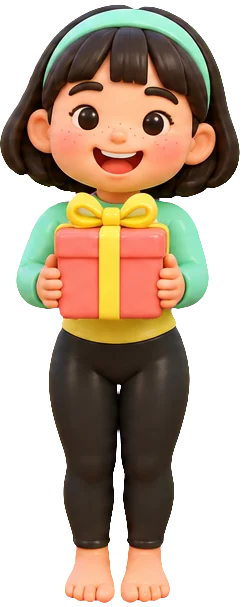
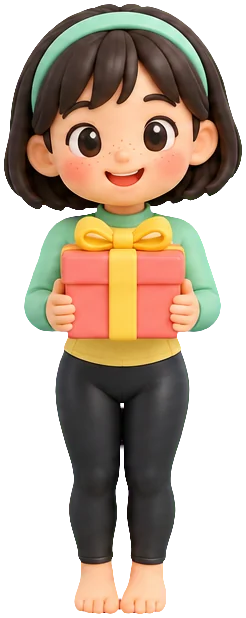
빼빼로 이벤트 v2: 낙산 서핑 네컷(인생네컷 띠 1080×1920 — 패들·라인업·발밑에 걸림·선물 든 나, 필름 날짜·파스텔 틀·클레이 스티커)으로 공유 이미지와 공개 화면을 바꾸고 「인스타 스토리로 자랑하기」를 맨 앞에, 박자에 맞춘 약 7초 릴스 영상(셔터 찰칵 3컷 → 상자 흔들림 → 꽃가루와 넷째 컷), 브라우저에서 만드는 우쿨렐레 서프 팝 배경 음악(Karplus-Strong, 104 BPM, 🔊/🔇 기억)과 효과음을 영상 소리로 함께 녹음, 더 귀여운 클레이 캐릭터 8종(v3), sw v219

diff --git a/pepero-app.js b/pepero-app.js
@@ -20,8 +20,8 @@ const PRIZES = [
 ];
 /* 캐릭터 — 남자/여자 탭에서 넷 중 하나(이름으로 성별을 짐작하지 않는다 — 본인이 고른다).
    클레이 캐릭터 그림(GPT) 한 사람에 세 자세: pad 엎드려 패들 · sit 보드에 앉아 기다리기 · gift 선물상자 들고 서기 → img/pepero/<id>-<자세>.webp */
-const LOOKS = { m:[ { id:'m1', ko:'웻슈트' }, { id:'m2', ko:'버킷햇' }, { id:'m3', ko:'수염 서퍼' }, { id:'m4', ko:'금발 곱슬' } ],
-  f:[ { id:'f1', ko:'포니테일' }, { id:'f2', ko:'헤어밴드' }, { id:'f3', ko:'웨이브' }, { id:'f4', ko:'올림머리' } ] };
+const LOOKS = { m:[ { id:'m1', ko:'웻슈트' }, { id:'m2', ko:'버킷햇' }, { id:'m3', ko:'곱슬머리' }, { id:'m4', ko:'금발 곱슬' } ],
+  f:[ { id:'f1', ko:'포니테일' }, { id:'f2', ko:'헤어밴드' }, { id:'f3', ko:'꽃핀' }, { id:'f4', ko:'똥머리' } ] };
 const W = 1080, H = 1920, BY = 1120;   // 스토리 좌표 — 화면 캔버스도 같은 좌표를 줄여서 그린다(BY: 물보라 높이)
 const FONT = '"Apple SD Gothic Neo","Noto Sans KR",sans-serif', INK = '#2B2340';
 const RM = (()=>{ try{ return matchMedia('(prefers-reduced-motion: reduce)').matches; }catch(e){ return false; } })();
@@ -237,67 +237,154 @@ function dof(g, t, a){
   g.save(); g.globalAlpha = a; g.beginPath(); g.rect(0, 0, W, 1300); g.clip(); back(g, b, t, 1.02, 540, 1150); g.restore();
   g.save(); g.globalAlpha = a * .5; g.beginPath(); g.rect(0, 1300, W, 110); g.clip(); back(g, b, t, 1.02, 540, 1150); g.restore();
 }
-/* 경품 스티커 — 하얀 테두리 스티커 위에 경품 그림 · 등수 · 이름 */
-function badge(g, p, cx, cy, rot, sc){
-  const w = 440, h = 520;
-  g.save(); g.translate(cx, cy); g.rotate(rot); g.scale(sc, sc);
-  g.save(); g.shadowColor = 'rgba(60,30,60,.35)'; g.shadowBlur = 34; g.shadowOffsetY = 16; g.fillStyle = '#fff'; rr(g, -w / 2, -h / 2, w, h, 74); g.fill(); g.restore();
-  const gr = g.createLinearGradient(0, -h / 2, 0, h / 2); gr.addColorStop(0, '#FFFBF3'); gr.addColorStop(1, '#FFEFD6');
-  g.fillStyle = gr; rr(g, -w / 2 + 16, -h / 2 + 16, w - 32, h - 32, 60); g.fill();
-  const im = PIC[stickerOf(p)], SZ = 210;
-  if(im){ const f = Math.min(SZ / im.width, SZ / im.height); g.save(); g.translate(0, -h / 2 + 36 + SZ / 2); g.rotate(-.08); g.drawImage(im, -im.width * f / 2, -im.height * f / 2, im.width * f, im.height * f); g.restore(); }
-  else{ g.textAlign = 'center'; g.font = `170px ${FONT}`; g.fillText(p.ic, 0, -h / 2 + 220); }
-  const pc = p.rank === '1등' ? ['#FFD86B', '#E7B640'] : p.rank === '참여상' ? ['#A8EBCF', '#6CCBA6'] : ['#FFC2CD', '#EE8FA3'];
-  pill(g, p.rank || '선물', 0, 4, 40, pc[0], pc[1]);
-  const [ls, fs] = wrap(g, p.n, w - 70, 60);
-  g.fillStyle = INK; g.textAlign = 'center'; g.font = `900 ${fs}px ${FONT}`; ls.forEach((l, i)=>g.fillText(l, 0, 176 + fs * .35 + (i - (ls.length - 1) / 2) * fs * 1.15));
-  g.restore();
-}
-/* 날짜 도장 — 둥근 분홍 스탬프 */
-function stamp(g, x, y, rot){
-  g.save(); g.translate(x, y); g.rotate(rot);
-  g.save(); g.shadowColor = 'rgba(120,30,60,.35)'; g.shadowBlur = 18; g.shadowOffsetY = 8; g.fillStyle = '#E86F86'; g.beginPath(); g.arc(0, 8, 98, 0, 7); g.fill(); g.restore();
-  g.fillStyle = '#FF8FA3'; g.beginPath(); g.arc(0, 0, 98, 0, 7); g.fill();
-  g.strokeStyle = 'rgba(255,255,255,.85)'; g.lineWidth = 5; g.setLineDash([10, 9]); g.beginPath(); g.arc(0, 0, 84, 0, 7); g.stroke(); g.setLineDash([]);
-  g.textAlign = 'center'; g.fillStyle = '#fff'; g.font = `900 58px ${FONT}`; g.fillText('11.11', 0, 6); g.font = `900 22px ${FONT}`; g.fillText('빼빼로데이', 0, 46);
-  g.restore();
-}
-/* 선물 장면 — 햇살 위로 선물상자가 튀어 오르고(찌그러졌다 펴지며) → 포스터: 제목 · 날짜 도장 · 경품 스티커 · 선물상자 든 나 · 「서프 버디 ○○」 · 같이 하자는 한 줄 */
+/* 선물상자가 물 밖으로 — 흐린 해변·햇살 위로 튀어 올라 찌그러졌다 펴진다 */
 function prizeScene(g, s, X, t){
-  const pop = s.ph === 'pop', k = pop ? Math.min(1, s.k / .7) : 1, rk = X.rm ? 1 : Math.min(1, s.k / .7), e = 1 - Math.pow(1 - rk, 3);
-  dof(g, t, pop ? Math.min(1, s.k / .5) : 1);
+  const k = Math.min(1, s.k / .7);
+  dof(g, t, Math.min(1, s.k / .5));
   g.fillStyle = 'rgba(255,240,225,.12)'; g.fillRect(0, 0, W, H);
-  rays(g, pop ? 540 : 680, pop ? 730 : 1060, t, pop ? k * .8 : .85);
-  if(!pop) for(const b of BOKEH){ const y = ((b.y - t * b.sp) % 1300 + 1300) % 1300; g.globalAlpha = b.a; g.fillStyle = '#FFF4DC'; g.beginPath(); g.arc(b.x, y, b.r, 0, 7); g.fill(); } g.globalAlpha = 1;
-  /* 바다에서 건진 선물상자 — 튀어 올랐다가 공개 때 모래 위 왼쪽으로 내려앉는다 */
-  let gx = 540, gb = 905, gh = 350, sx = 1, sy = 1;
-  if(pop && !X.rm){ gb = 1900 - (1900 - 905) * (1 - Math.pow(1 - k, 3)); if(k < 1){ sx = .84; sy = 1.18; }
+  rays(g, 540, 730, t, k * .8);
+  let gb = 905, sx = 1, sy = 1;
+  if(!X.rm){ gb = 1900 - (1900 - 905) * (1 - Math.pow(1 - k, 3)); if(k < 1){ sx = .84; sy = 1.18; }
     else{ const l = Math.min(1, (s.k - .7) / .3), w = Math.sin(l * Math.PI * 2.5) * (1 - l) * .2; sx = 1 + w; sy = 1 - w; } }
-  else if(!pop){ gx = 540 + (225 - 540) * e; gb = 905 + (1545 - 905) * e; gh = 350 + (250 - 350) * e; }
-  const gim = PIC.gift;
-  const drawGift = ()=>{ g.save(); g.translate(gx, gb); g.scale(sx, sy); if(gim){ const w = gh * gim.width / gim.height; g.drawImage(gim, -w / 2, -gh, w, gh); } else{ g.textAlign = 'center'; g.font = `${gh * .7}px ${FONT}`; g.fillText('🎁', 0, -gh * .15); } g.restore(); };
-  if(pop){ drawGift(); return; }
-  const tk = X.rm ? 1 : Math.min(1, s.k / .6), ty = (1 - tk) * -30, pk = X.rm ? 1 : Math.min(1, Math.max(0, (s.k - .25) / .5));
-  /* 선물상자 든 나 */
-  if(X.gift){ const h = 760, w = h * X.gift.width / X.gift.height, cx = 700, fy = 1540, b = X.rm ? 0 : Math.sin(t * 2.4) * 6;
-    g.fillStyle = 'rgba(90,60,30,.26)'; g.beginPath(); g.ellipse(cx, fy - 8, w * .42, 26, 0, 0, 7); g.fill();
-    const sc2 = X.rm ? 1 : .6 + .4 * easeBack(Math.min(1, s.k / .55));
-    g.save(); g.translate(cx, fy); g.scale(sc2, sc2); g.drawImage(X.gift, -w / 2, -h + b, w, h); g.restore(); }
-  drawGift();
-  if(X.prize && pk > 0) badge(g, X.prize, 300, 1010, -.07, X.rm ? 1 : .5 + .5 * easeBack(pk));
-  g.globalAlpha = tk;
-  pill(g, '양양서핑학교 서프 버디', W / 2 + 70, 268 + ty, 36, '#A8EBCF', '#6CCBA6');
-  title(g, '낙산 해변에서', W / 2, 462 + ty, 118, 960);
-  title(g, '건진 선물!', W / 2, 612 + ty, 156, 960);
-  g.globalAlpha = 1;
-  stamp(g, 150, 300, -.22);
-  if(X.name) pill(g, '서프 버디 ' + String(X.name).slice(0, 10), 700, 1530, 40, '#fff', '#E8DCCB');
-  g.fillStyle = 'rgba(255,255,255,.88)'; rr(g, 90, 1626, 900, 76, 38); g.fill();
-  g.textAlign = 'center'; g.fillStyle = INK; fit(g, '너도 낙산에서 선물 건져 봐 → surf.owenai.xyz/pepero', 840, 34, 900); g.fillText('너도 낙산에서 선물 건져 봐 → surf.owenai.xyz/pepero', W / 2, 1676);
-  if(!X.rm && s.k < 3.2){ g.globalAlpha = Math.min(1, (3.2 - s.k) / .8);
-    for(const c of CF){ const yy = c.ph * .3 - 200 + s.k * c.sp; g.save(); g.translate(c.x, yy); g.rotate(c.r + s.k * 2); g.fillStyle = CFC[c.ph % 6]; rr(g, -c.s / 2, -c.s * 1.6, c.s, c.s * 3.2, c.s / 2); g.fill(); g.restore(); }
-    g.globalAlpha = 1; }
+  g.save(); g.translate(540, gb); g.scale(sx, sy);
+  const im = PIC.gift; if(im){ const w = 350 * im.width / im.height; g.drawImage(im, -w / 2, -350, w, 350); } else{ g.textAlign = 'center'; g.font = `240px ${FONT}`; g.fillText('🎁', 0, -60); }
+  g.restore();
 }
+/* ── 서핑 네컷 — 사진관 네 컷 띠(1080×1920). ① 패들 ② 라인업에서 기다림 ③ 발밑에 걸림 ④ 선물 든 나 ──
+   컷마다 필름 사진처럼(비네트·플래시 번짐·주황 날짜 글씨), 둘레는 파스텔 틀 + 클레이 스티커. 화면 공개·스토리 이미지·영상이 같은 그림을 쓴다 */
+const CW = 460, CH = 620, SLOTS = [[70, 300], [550, 300], [70, 940], [550, 940]];
+const LABEL = ['① 패들 패들!', '② 세트 기다리는 중', '③ 발밑에 걸렸다!', '④ 바다가 준 선물'];
+function world(g, im, x, y, w, h){   // 1080×1920 장면의 한 부분을 컷 하나에 꽉 채운다
+  if(!im){ const gr = g.createLinearGradient(0, 0, 0, CH); gr.addColorStop(0, '#9FD8F5'); gr.addColorStop(.5, '#5CC6D0'); gr.addColorStop(1, '#F6E3BD'); g.fillStyle = gr; g.fillRect(0, 0, CW, CH); return; }
+  const f = im.width / W; g.drawImage(im, x * f, y * f, w * f, h * f, 0, 0, CW, CH);
+}
+function fig(g, im, cx, by, h){ if(!im) return; const w = h * im.width / im.height; g.drawImage(im, cx - w / 2, by - h, w, h); }
+function starburst(g, x, y, r, rot, face){ g.save(); g.translate(x, y); g.rotate(rot); g.beginPath(); for(let i = 0; i < 28; i++){ const a = i / 28 * 6.283, rr2 = i % 2 ? r * .8 : r; g.lineTo(Math.cos(a) * rr2, Math.sin(a) * rr2); } g.closePath();
+  g.fillStyle = 'rgba(120,60,0,.18)'; g.save(); g.translate(4, 8); g.fill(); g.restore(); g.fillStyle = face; g.fill(); g.restore(); }
+function clayStar(g, x, y, r, rot){ g.save(); g.translate(x, y); g.rotate(rot);
+  const path = ()=>{ g.beginPath(); for(let i = 0; i < 10; i++){ const a = -Math.PI / 2 + i * Math.PI / 5, q = i % 2 ? r * .48 : r; g.lineTo(Math.cos(a) * q, Math.sin(a) * q); } g.closePath(); };
+  g.lineJoin = 'round'; g.lineWidth = r * .22; g.translate(0, r * .14); path(); g.strokeStyle = g.fillStyle = '#E7B640'; g.fill(); g.stroke(); g.translate(0, -r * .14); path(); g.strokeStyle = g.fillStyle = '#FFD86B'; g.fill(); g.stroke();
+  g.fillStyle = 'rgba(255,255,255,.7)'; g.beginPath(); g.ellipse(-r * .2, -r * .3, r * .18, r * .1, -.5, 0, 7); g.fill(); g.restore(); }
+function sticker(g, im, x, y, sz, rot){ if(!im) return; const f = sz / Math.max(im.width, im.height); g.save(); g.translate(x, y); g.rotate(rot); g.shadowColor = 'rgba(80,40,60,.3)'; g.shadowBlur = 14; g.shadowOffsetY = 6;
+  g.drawImage(im, -im.width * f / 2, -im.height * f / 2, im.width * f, im.height * f); g.restore(); }
+let CUTS = null;
+function cuts(X){
+  const key = [imgs.key, X.prize && X.prize.id, ...ALL.map(n=>PIC[n] ? 1 : 0), X.pad ? 1 : 0, X.sit ? 1 : 0, X.gift ? 1 : 0].join('|');
+  if(CUTS && CUTS.key === key) return CUTS.c;
+  const c = [0, 1, 2, 3].map(i=>{ const cv = document.createElement('canvas'); cv.width = CW; cv.height = CH; const g = cv.getContext('2d');
+    if(i === 0){ world(g, PIC.bg, 300, 640, 700, 943);
+      g.strokeStyle = 'rgba(255,255,255,.7)'; g.lineCap = 'round'; g.lineWidth = 6; [[30, 380, 110], [10, 430, 90], [40, 470, 120]].forEach(([x, y, l])=>{ g.beginPath(); g.moveTo(x, y); g.lineTo(x + l, y); g.stroke(); });
+      fig(g, X.pad, 250, 480, 250 * (X.pad ? X.pad.height / X.pad.width : 1) * 1.65);
+      g.fillStyle = '#fff'; [[420, 420, 9], [440, 395, 6], [400, 445, 7], [452, 430, 5], [118, 462, 7], [96, 448, 5]].forEach(([x, y, r])=>{ g.beginPath(); g.arc(x, y, r, 0, 7); g.fill(); }); }
+    if(i === 1){ world(g, PIC.bg, 0, 520, 620, 836);
+      g.save(); g.globalCompositeOperation = 'screen'; const gr = g.createRadialGradient(111, 308, 6, 111, 308, 300); gr.addColorStop(0, 'rgba(255,236,190,.95)'); gr.addColorStop(1, 'rgba(255,190,140,0)'); g.fillStyle = gr; g.fillRect(0, 0, CW, CH); g.restore();
+      fig(g, X.sit, 300, 500, 330); }
+    if(i === 2){ world(g, PIC.tug, 140, 760, 700, 943);
+      g.save(); g.globalCompositeOperation = 'screen'; for(let j = 0; j < 3; j++){ const x0 = 40 + j * 150, gr = g.createLinearGradient(0, 0, 0, CH); gr.addColorStop(0, 'rgba(220,255,250,.3)'); gr.addColorStop(1, 'rgba(220,255,250,0)'); g.fillStyle = gr; g.beginPath(); g.moveTo(x0, 0); g.lineTo(x0 + 50, 0); g.lineTo(x0 + 170, CH); g.lineTo(x0 + 60, CH); g.closePath(); g.fill(); } g.restore();
+      for(let j = 0; j < 9; j++) bubble(g, 120 + (j * 97) % 260, 80 + (j * 131) % 360, 8 + (j % 3) * 6);
+      g.save(); g.translate(372, 118); g.rotate(.12); pill(g, '!', 0, -50, 84, '#FFE08A', '#E7B640'); g.restore(); }
+    if(i === 3){ world(g, soft('bg') || PIC.bg, 190, 700, 700, 943);
+      g.save(); g.globalCompositeOperation = 'screen'; g.translate(230, 300); const gr = g.createRadialGradient(0, 0, 20, 0, 0, 420); gr.addColorStop(0, 'rgba(255,240,200,.75)'); gr.addColorStop(1, 'rgba(255,240,200,0)'); g.fillStyle = gr;
+        for(let j = 0; j < 12; j++){ const a = j / 12 * 6.283; g.beginPath(); g.moveTo(0, 0); g.arc(0, 0, 600, a, a + .2); g.closePath(); g.fill(); } g.restore();
+      fig(g, X.gift, 210, 600, 500);
+      const p = X.prize; if(p){ starburst(g, 352, 132, 100, .2, '#FFE08A'); sticker(g, PIC[stickerOf(p)], 352, 118, 120, -.15);
+        g.textAlign = 'center'; g.fillStyle = INK; g.font = `900 30px ${FONT}`; g.fillText(p.rank || '선물', 352, 205); } }
+    /* 필름 사진 느낌 — 따뜻한 색 · 플래시 번짐 · 비네트 · 주황 날짜 */
+    g.save(); g.globalCompositeOperation = 'soft-light'; g.fillStyle = 'rgba(255,190,140,.35)'; g.fillRect(0, 0, CW, CH);
+    g.globalCompositeOperation = 'screen'; const fl = g.createRadialGradient(90, 70, 10, 90, 70, 300); fl.addColorStop(0, 'rgba(255,255,255,.35)'); fl.addColorStop(1, 'rgba(255,255,255,0)'); g.fillStyle = fl; g.fillRect(0, 0, CW, CH);
+    g.globalCompositeOperation = 'source-over'; const v = g.createRadialGradient(CW / 2, CH / 2, CH * .3, CW / 2, CH / 2, CH * .72); v.addColorStop(0, 'rgba(40,20,40,0)'); v.addColorStop(1, 'rgba(40,20,40,.38)'); g.fillStyle = v; g.fillRect(0, 0, CW, CH); g.restore();
+    g.save(); g.font = `700 30px "Courier New",monospace`; g.textAlign = 'right'; g.shadowColor = '#FF6A00'; g.shadowBlur = 10; g.fillStyle = '#FFB060'; g.fillText("'26 11 11", CW - 22, CH - 24); g.restore();
+    g.save(); g.font = `900 26px ${FONT}`; const lw = g.measureText(LABEL[i]).width + 28; g.fillStyle = 'rgba(255,255,255,.92)'; rr(g, 16, 16, lw, 46, 23); g.fill(); g.fillStyle = INK; g.textAlign = 'left'; g.fillText(LABEL[i], 30, 48); g.restore();
+    return cv; });
+  CUTS = { key, c }; return c;
+}
+function dateStamp(g, x, y, rot){
+  g.save(); g.translate(x, y); g.rotate(rot);
+  g.fillStyle = '#E86F86'; g.beginPath(); g.arc(0, 7, 86, 0, 7); g.fill(); g.fillStyle = '#FF8FA3'; g.beginPath(); g.arc(0, 0, 86, 0, 7); g.fill();
+  g.strokeStyle = 'rgba(255,255,255,.85)'; g.lineWidth = 4; g.setLineDash([9, 8]); g.beginPath(); g.arc(0, 0, 77, 0, 7); g.stroke(); g.setLineDash([]);
+  g.textAlign = 'center'; g.fillStyle = '#fff'; g.font = `900 24px ${FONT}`; g.fillText('2026', 0, -24); g.font = `900 50px ${FONT}`; g.fillText('11.11', 0, 22); g.font = `900 17px ${FONT}`; g.fillText('빼빼로데이', 0, 46);
+  g.restore();
+}
+const CONF = Array.from({ length:90 }, (_, i)=>({ a:(i * 137.5) % 360 * Math.PI / 180, v:500 + (i * 53) % 900, s:9 + (i % 4) * 4, c:CFC[i % 6], r:i * .9 }));
+/* 띠 그리기 — o: { n 붙은 컷 수, fly:[i, p] 날아드는 컷, shake 넷째 칸 상자 흔들림, lines 아랫줄 보임, conf 꽃가루 시간, flash, t } */
+function strip(g, X, o){
+  const t = o.t || 0, C = cuts(X);
+  const bg = g.createLinearGradient(0, 0, 0, H); bg.addColorStop(0, '#FFD3DF'); bg.addColorStop(1, '#FFE6C4'); g.fillStyle = bg; g.fillRect(0, 0, W, H);
+  g.fillStyle = 'rgba(255,255,255,.42)'; for(let y = 30, r = 0; y < H; y += 56, r++) for(let x = r % 2 ? 58 : 30; x < W; x += 56){ g.beginPath(); g.arc(x, y, 6, 0, 7); g.fill(); }
+  pill(g, '양양서핑학교 서프 버디 · 낙산 해변', W / 2 - 60, 84, 34, '#fff', '#F2C9D3');
+  title(g, '낙산 서핑 네컷', W / 2 - 60, 260, 96, 760);
+  SLOTS.forEach(([x, y], i)=>{
+    g.save(); g.fillStyle = 'rgba(150,70,90,.18)'; rr(g, x + 4, y + 8, CW, CH, 22); g.fill(); g.restore();
+    if(i < o.n && !(o.fly && o.fly[0] === i)){ g.save(); rr(g, x, y, CW, CH, 22); g.clip(); g.drawImage(C[i], x, y); g.restore(); }
+    else{ g.fillStyle = '#F7C3CF'; rr(g, x, y, CW, CH, 22); g.fill(); g.globalAlpha = .55; g.textAlign = 'center'; g.font = `90px ${FONT}`; g.fillText(i === 3 ? '🎁' : '📷', x + CW / 2, y + CH / 2 + 30); g.globalAlpha = 1; }
+  });
+  if(o.shake > 0 && PIC.gift && o.n < 4){ const [x, y] = SLOTS[3], a = Math.sin(t * 46) * .22 * o.shake, s = 1 + .08 * o.shake * Math.abs(Math.sin(t * 11));
+    g.save(); g.translate(x + CW / 2, y + CH * .72); g.rotate(a); g.scale(s, s); const w = 330 * PIC.gift.width / PIC.gift.height; g.drawImage(PIC.gift, -w / 2, -330, w, 330); g.restore(); }
+  sticker(g, PIC.p2, 1000, 330, 200, .55); sticker(g, PIC.p4, 96, 1548, 170, -.3); sticker(g, PIC.gift, 1000, 1578, 160, .14);
+  clayStar(g, 46, 920, 34, .2); clayStar(g, 1042, 1000, 26, -.3); clayStar(g, 536, 935, 20, .4);
+  dateStamp(g, 948, 168, .18);
+  const la = o.lines == null ? 1 : o.lines;
+  if(la > 0){ g.globalAlpha = la; const dy = (1 - la) * 30;
+    if(X.name) pill(g, '서프 버디 ' + String(X.name).slice(0, 10), W / 2, 1596 + dy, 44, '#fff', '#F2C9D3');
+    if(X.prize){ const tx = `건진 선물: ${X.prize.rank && X.prize.rank !== '참여상' ? X.prize.rank + ' ' : ''}${X.prize.n}`; g.textAlign = 'center'; g.fillStyle = INK; fit(g, tx, 880, 50, 900); g.fillText(tx, W / 2, 1752 + dy); }
+    g.fillStyle = '#A0687E'; g.font = `800 30px ${FONT}`; g.textAlign = 'center'; g.fillText('surf.owenai.xyz/pepero', W / 2, 1822 + dy); g.globalAlpha = 1; }
+  if(o.fly){ const [i, p] = o.fly, e = 1 - Math.pow(1 - p, 3), [sx, sy] = SLOTS[i], bw = 940, bh = bw * CH / CW, bx = (W - bw) / 2, by = (H - bh) / 2;
+    const x = bx + (sx - bx) * e, y = by + (sy - by) * e, w = bw + (CW - bw) * e, h = bh + (CH - bh) * e;
+    g.save(); g.translate(x + w / 2, y + h / 2); g.rotate(-.04 * (1 - e)); g.shadowColor = 'rgba(60,20,40,.4)'; g.shadowBlur = 40 * (1 - e); g.fillStyle = '#fff'; rr(g, -w / 2 - 10, -h / 2 - 10, w + 20, h + 20, 28); g.fill(); g.shadowBlur = 0;
+    rr(g, -w / 2, -h / 2, w, h, 22); g.clip(); g.drawImage(C[i], -w / 2, -h / 2, w, h); g.restore(); }
+  if(o.conf != null && o.conf >= 0 && o.conf < 2.6){ const k = o.conf;
+    for(const c of CONF){ const x = 540 + Math.cos(c.a) * c.v * k * .9, y = 960 + Math.sin(c.a) * c.v * k * .9 + 900 * k * k; if(y > H + 40) continue;
+      g.save(); g.globalAlpha = Math.max(0, 1 - k / 2.6); g.translate(x, y); g.rotate(c.r + k * 8); g.fillStyle = c.c; rr(g, -c.s / 2, -c.s * 1.6, c.s, c.s * 3.2, c.s / 2); g.fill(); g.restore(); } }
+  if(o.flash > 0){ g.fillStyle = `rgba(255,255,255,${Math.min(1, o.flash)})`; g.fillRect(0, 0, W, H); }
+}
+/* ── 소리 — 「우쿨렐레 서프 팝」, 브라우저에서 바로 만든다(녹음 파일·저작권 없음). 104 BPM, C–G–Am–F.
+   뜯는 줄은 Karplus-Strong(잡음을 짧은 지연선에 돌려 줄 소리로), 박수·셰이커는 걸러 낸 잡음, 종은 사인파 셋. 같은 함수를 화면 배경 음악·영상 소리·효과음이 같이 쓴다 ── */
+const BPM = 104, BEAT = 60 / BPM, NOTE = n => 440 * Math.pow(2, (n - 69) / 12);
+const CHORDS = [[67, 60, 64, 69], [67, 62, 67, 71], [69, 60, 64, 69], [69, 60, 65, 69]], ROOT = [48, 43, 45, 41];   // 우쿨렐레 GCEA 자리 C G Am F
+const STRUM = [[0, 0, 1], [1, 0, .7], [1.5, 1, .5], [2.5, 1, .6], [3, 0, .8], [3.5, 1, .55]];   // [박, 위로?, 세기] — 다운 다운업 업다운업
+function pluck(ctx, f){ const m = ctx.__pl || (ctx.__pl = {}); if(m[f]) return m[f];
+  const sr = ctx.sampleRate, N = Math.max(2, Math.round(sr / f)), L = Math.round(sr * 1.3), b = ctx.createBuffer(1, L, sr), d = b.getChannelData(0);
+  for(let i = 0; i < N; i++) d[i] = (Math.random() * 2 - 1) * .9;
+  for(let i = N; i < L; i++) d[i] = .4975 * (d[i - N] + d[i - N + 1]);
+  return m[f] = b; }
+function noise(ctx){ if(ctx.__nz) return ctx.__nz; const b = ctx.createBuffer(1, ctx.sampleRate, ctx.sampleRate), d = b.getChannelData(0); for(let i = 0; i < d.length; i++) d[i] = Math.random() * 2 - 1; return ctx.__nz = b; }
+function src(ctx, out, buf, t, gain, filt){
+  const s = ctx.createBufferSource(), g = ctx.createGain(); s.buffer = buf; g.gain.value = gain; let n = s;
+  if(filt){ const f = ctx.createBiquadFilter(); f.type = filt[0]; f.frequency.value = filt[1]; f.Q.value = filt[2] || .7; n.connect(f); n = f; }
+  n.connect(g); g.connect(out); s.start(Math.max(0, t)); return [s, g];
+}
+function hit(ctx, out, t, dur, gain, filt){ t = Math.max(0, t); const [s, g] = src(ctx, out, noise(ctx), t, 0, filt); g.gain.setValueAtTime(gain, t); g.gain.exponentialRampToValueAtTime(.0001, t + dur); s.stop(t + dur + .02); }
+function strum(ctx, out, t, ns, v, up){ (up ? ns.slice().reverse() : ns).forEach((n, i)=>{ const [s] = src(ctx, out, pluck(ctx, NOTE(n)), t + i * .013, .15 * v, ['lowpass', 5200]); s.stop(Math.max(0, t) + 1.3); }); }
+function tone(ctx, out, t, f, gain, dur, type){ t = Math.max(0, t); const o = ctx.createOscillator(), g = ctx.createGain(); o.type = type || 'sine'; o.frequency.value = f;
+  g.gain.setValueAtTime(.0001, t); g.gain.exponentialRampToValueAtTime(gain, t + .012); g.gain.exponentialRampToValueAtTime(.0001, t + dur); o.connect(g); g.connect(out); o.start(t); o.stop(t + dur + .05); }
+const clap = (ctx, out, t, v) => { for(let i = 0; i < 3; i++) hit(ctx, out, t + i * .008, .09, .3 * v, ['bandpass', 1400, 1.2]); };
+const chime = (ctx, out, t, v = 1) => [[1, 1], [2.76, .45], [5.4, .2]].forEach(([r, a])=>tone(ctx, out, t, 1046.5 * r, .16 * a * v, 1.8 / r));
+const shutter = (ctx, out, t) => { hit(ctx, out, t, .03, .55, ['highpass', 2600]); hit(ctx, out, t + .06, .06, .4, ['bandpass', 1700, 2]); tone(ctx, out, t + .01, 2600, .05, .12, 'triangle'); };
+function sparkle(ctx, out, t){ t = Math.max(0, t); const [s, g] = src(ctx, out, noise(ctx), t, 0, ['bandpass', 900, 3]);
+  g.gain.setValueAtTime(.0001, t); g.gain.exponentialRampToValueAtTime(.35, t + .05); g.gain.exponentialRampToValueAtTime(.0001, t + .6); s.stop(t + .65);
+  [0, .07, .14, .21].forEach((d, i)=>tone(ctx, out, t + d, [1568, 2093, 2637, 3136][i], .07, .5, 'triangle')); chime(ctx, out, t + .05, 1.2); }
+function bar(ctx, out, t, i){
+  const c = i % 4;
+  STRUM.forEach(([b, up, v])=>strum(ctx, out, t + b * BEAT, CHORDS[c], v, up));
+  [0, 2].forEach(b=>tone(ctx, out, t + b * BEAT, NOTE(ROOT[c]), .22, .45));
+  [1, 3].forEach(b=>clap(ctx, out, t + b * BEAT, .8));
+  for(let e = 0; e < 8; e++) hit(ctx, out, t + e * BEAT / 2, .045, e % 2 ? .07 : .035, ['highpass', 7000]);
+}
+/* 화면 배경 음악 — 처음엔 꺼 둔다(자동 재생 막힘). 켜 두면 기억했다가 다음에 첫 터치에 다시 켠다 */
+const LSND = 'lineup.pepero.sound', SND = { on:false, ctx:null, out:null, iv:0, next:0, bar:0 };
+function sndCtx(){
+  if(SND.ctx) return SND.ctx; const AC = window.AudioContext || window.webkitAudioContext; if(!AC) return null;
+  SND.ctx = new AC(); SND.out = SND.ctx.createGain(); SND.out.gain.value = 0; SND.out.connect(SND.ctx.destination); return SND.ctx;
+}
+function paintSnd(){ const b = $('pp-snd'); if(!b) return; b.textContent = SND.on ? '🔊' : '🔇'; b.setAttribute('aria-pressed', String(SND.on)); b.setAttribute('aria-label', SND.on ? '배경 음악 끄기' : '배경 음악 켜기'); }
+function music(on, keep){
+  SND.on = on; if(!keep) try{ localStorage.setItem(LSND, on ? '1' : '0'); }catch(e){}
+  paintSnd(); const c = sndCtx(); if(!c) return;
+  if(on){ c.resume?.(); SND.out.gain.setTargetAtTime(.3, c.currentTime, .08); SND.next = Math.max(SND.next, c.currentTime + .08); clearInterval(SND.iv);
+    const fill = ()=>{ while(SND.next < c.currentTime + 1.6){ bar(c, SND.out, SND.next, SND.bar++); SND.next += 4 * BEAT; } }; fill(); SND.iv = setInterval(fill, 300); }
+  else{ clearInterval(SND.iv); SND.out.gain.setTargetAtTime(0, c.currentTime, .06); SND.next = 0; }
+}
+function sfx(fn){ if(SND.on && SND.ctx) try{ fn(SND.ctx, SND.out, SND.ctx.currentTime + .02); }catch(e){} }
 /* 장면 상태 — 화면과 영상이 같은 걸 쓴다(입자는 미리 만들어 두고 돌려 쓴다) */
 const CAM = { intro:[1, 540, 1150], walk:[1.18, 0, 1420], paddle:[1.1, 640, 1150], wait:[1.26, 610, 1080], tug:[1.3, 610, 1080], pop:[1, 540, 1000], reveal:[1, 540, 1000] };
 function newS(){ return { ph:'intro', k:0, t:0, w:0, wp:0, pg:0, n:0, pulls:0, cz:1, cx:540, cy:1150, sp:Array.from({ length:48 }, ()=>({ a:0, x:0, y:0, vx:0, vy:0 })) }; }
@@ -344,6 +431,7 @@ function post(g, s, X, t){
 }
 function paint(g, s, X){
   const ph = s.ph, t = X.rm ? 0 : s.t;
+  if(ph === 'reveal'){ const k = X.rm ? 9 : s.k; strip(g, X, { t, n:4, lines:Math.min(1, k / .8), conf:k < 2.6 ? k : -1, flash:Math.max(0, .8 - k * 2.5) }); return; }   // 공개 = 서핑 네컷 띠(내보내는 그림과 같다)
   const tugA = ph === 'tug' ? (X.rm ? 1 : Math.min(1, s.k / .6)) : ph === 'pop' ? (X.rm ? 0 : Math.max(0, 1 - s.k / .35)) : 0;
   if(tugA < 1){
     const beach = ph !== 'pop' && ph !== 'reveal';
@@ -445,7 +533,7 @@ function loop(now){
   step(S, dt, RM);
   if(S.ph === 'walk' && S.w >= 4 && S.k > 1.6){ go(S, 'paddle'); splash(S, 420, 1300, 12); ctl(); }
   else if(S.ph === 'wait' && S.k > 2.8){ go(S, 'tug'); navigator.vibrate?.([30, 40, 30, 40, 60]); ctl(); }
-  else if(S.ph === 'pop' && S.k > 1.1){ go(S, 'reveal'); X.prize = prizeOf(res); navigator.vibrate?.([20, 40, 20]); ctl(); }
+  else if(S.ph === 'pop' && S.k > 1.1){ go(S, 'reveal'); X.prize = prizeOf(res); navigator.vibrate?.([20, 40, 20]); sfx(sparkle); ctl(); }
   paint(cv.getContext('2d'), S, X);
   raf = requestAnimationFrame(loop);
 }
@@ -466,16 +554,16 @@ async function play(){
   if(res && S.ph === 'intro'){ go(S, 'reveal'); S.k = 1; X.prize = prizeOf(res); }
   ctl();
 }
-function walk(){ if(!S || S.ph !== 'walk' || S.w >= 4) return; S.w++; navigator.vibrate?.(10); if(S.w >= 4) S.k = 0; ctl(); }
+function walk(){ if(!S || S.ph !== 'walk' || S.w >= 4) return; S.w++; sfx((c, o, t)=>tone(c, o, t, NOTE(72 + [0, 4, 7, 12][S.w - 1]), .12, .4, 'triangle')); navigator.vibrate?.(10); if(S.w >= 4) S.k = 0; ctl(); }
 function paddle(){
   if(!S || S.ph !== 'paddle') return;
-  S.n++; splash(S, S.hx || 600, S.hy || BY, 8); navigator.vibrate?.(10);
+  S.n++; splash(S, S.hx || 600, S.hy || BY, 8); sfx((c, o, t)=>hit(c, o, t, .16, .22, ['bandpass', 800, .8])); navigator.vibrate?.(10);
   if(S.n >= 5){ go(S, 'wait'); splash(S, 610, BY, 10); }
   ctl();
 }
 function pull(){
   if(!S || S.ph !== 'tug') return;
-  S.pulls++; splash(S, 487, 1320, 10); navigator.vibrate?.(18);
+  S.pulls++; splash(S, 487, 1320, 10); sfx((c, o, t)=>clap(c, o, t, .9)); navigator.vibrate?.(18);
   if(S.pulls >= 3){ claim(); go(S, 'pop'); splash(S, 540, 1500, 20); }
   ctl();
 }
@@ -486,37 +574,55 @@ async function start(){
 }
 const act = () => S && (S.ph === 'walk' ? walk() : S.ph === 'paddle' ? paddle() : S.ph === 'tug' ? pull() : 0);   // 그림을 눌러도 같은 동작
 
-/* ── 스토리 내보내기 ── */
+/* ── 스토리 내보내기 — 서핑 네컷 PNG · 박자에 맞춘 약 7초 릴스 영상(음악·셔터·꽃가루 소리까지 영상에 담는다) ── */
 function storyCanvas(){ const c = document.createElement('canvas'); c.width = W; c.height = H; return c; }
 async function png(){
-  await loadImgs(); await want(ALL); const c = storyCanvas(), g = c.getContext('2d'), s = newS(); go(s, 'reveal'); s.k = 1; s.t = 2.2;
-  paint(g, s, Object.assign(assets(), { rm:true }));
+  await loadImgs(); await want(ALL); const c = storyCanvas();
+  strip(c.getContext('2d'), assets(), { n:4, lines:1 });
   return new Promise(ok=>c.toBlob(ok, 'image/png'));
 }
-const MIMES = ['video/mp4;codecs=avc1.42E01E', 'video/mp4;codecs=avc1', 'video/mp4', 'video/webm;codecs=vp9', 'video/webm;codecs=vp8', 'video/webm'];
-/* 영상 — 같은 장면을 줄여서: 해변 와이드 → 보드 넷 1111 → 패들 → 라인업 → 물속 리시 → 선물상자 → 경품 카드 */
-const TL = [['intro', 1.3], ['walk', 2.0], ['paddle', 1.7], ['wait', 1.2], ['tug', 1.7], ['pop', 1.0], ['reveal', 2.6]];
+const MIMES = ['video/mp4;codecs=avc1.42E01E,mp4a.40.2', 'video/mp4;codecs=avc1,mp4a.40.2', 'video/mp4', 'video/webm;codecs=vp9,opus', 'video/webm;codecs=vp8,opus', 'video/webm'];
+/* 박자표(박 단위) — 컷 셋은 박자에 찰칵, 상자가 흔들리며 쌓이다가 8박에 꽃가루와 함께 넷째 컷, 띠가 자리 잡고 끝 */
+const SNAP = [1, 3, 5], SHAKE = [6, 8], REVEAL = 8, REEL_END = 12.6;
+function reel(g, X, el){
+  const b = el / BEAT, fly = [], o = { t:el, n:0, lines:0, flash:0, shake:0, conf:-1 };
+  SNAP.forEach((sb, i)=>{ if(b >= sb){ o.n = i + 1; const p = (el - sb * BEAT - .18) / .32; if(p < 1) o.fly = [i, Math.max(0, p)]; o.flash = Math.max(o.flash, 1 - (el - sb * BEAT) / .22); } });
+  if(b >= SHAKE[0] && b < REVEAL) o.shake = (b - SHAKE[0]) / (SHAKE[1] - SHAKE[0]);
+  if(b >= REVEAL){ o.n = 4; const p = (el - REVEAL * BEAT - .7) / .4; if(p < 1) o.fly = [3, Math.max(0, p)]; o.flash = Math.max(o.flash, 1 - (el - REVEAL * BEAT) / .3); o.conf = el - REVEAL * BEAT; }
+  o.lines = Math.max(0, Math.min(1, (b - REVEAL - 2) / 1.2));
+  if(b < SNAP[0]) o.lines = 0;
+  strip(g, X, o);
+  if(b < SNAP[0]){ const k = b / SNAP[0]; g.fillStyle = `rgba(43,35,64,${.55 * (1 - k)})`; g.fillRect(0, 0, W, H);
+    g.textAlign = 'center'; g.font = `900 120px ${FONT}`; g.fillStyle = '#fff'; g.save(); g.translate(540, 980); const s = 1 + .2 * (1 - k); g.scale(s, s); g.fillText('찰칵!', 0, 0); g.restore(); }
+}
+function score(ctx, out, a0){   // 영상 소리 — 음악 3마디 + 효과음, a0 = 0박의 시각
+  for(let i = 0; i < 3; i++) bar(ctx, out, a0 + i * 4 * BEAT, i);
+  strum(ctx, out, a0 + 12 * BEAT, CHORDS[0], 1, 0); tone(ctx, out, a0 + 12 * BEAT, NOTE(ROOT[0]), .25, 1);
+  SNAP.forEach(sb=>shutter(ctx, out, a0 + sb * BEAT));
+  for(let x = SHAKE[0]; x < REVEAL; x += .25 - (x - SHAKE[0]) * .06) clap(ctx, out, a0 + x * BEAT, .35 + (x - SHAKE[0]) * .3);   // 점점 빨라지는 두두두
+  sparkle(ctx, out, a0 + REVEAL * BEAT); chime(ctx, out, a0 + 12 * BEAT, .8);
+}
 async function video(onP){
-  await loadImgs(); await want(ALL);
+  await loadImgs(); await want(ALL); cuts(assets());
   const mime = typeof MediaRecorder === 'undefined' ? null : MIMES.find(m=>{ try{ return MediaRecorder.isTypeSupported(m); }catch(e){ return false; } });
   const c = storyCanvas(); if(!mime || !c.captureStream) throw new Error('norec');
-  const g = c.getContext('2d'), s = newS(), A = Object.assign(assets(), { rm:false }), DUR = TL.reduce((a, x)=>a + x[1], 0);
-  paint(g, s, A);
-  const stream = c.captureStream(30), rec = new MediaRecorder(stream, { mimeType:mime, videoBitsPerSecond:6e6 }), parts = [];
+  const g = c.getContext('2d'), A = assets(), DUR = REEL_END * BEAT;
+  let ac = null, dest = null;
+  try{ const AC = window.AudioContext || window.webkitAudioContext; ac = new AC(); await Promise.race([ac.resume(), new Promise(r=>setTimeout(r, 300))]); dest = ac.createMediaStreamDestination(); }catch(e){ dest = null; }
+  reel(g, A, 0);
+  const vs = c.captureStream(30), stream = new MediaStream([...vs.getVideoTracks(), ...(dest ? dest.stream.getAudioTracks() : [])]);
+  const rec = new MediaRecorder(stream, { mimeType:mime, videoBitsPerSecond:6e6 }), parts = [];
   rec.ondataavailable = e=>{ if(e.data && e.data.size) parts.push(e.data); };
   return new Promise((ok, no)=>{
-    let iv = 0; const t0 = performance.now(); let lt = t0;
-    const kill = setTimeout(()=>{ clearInterval(iv); no(new Error('timeout')); try{ rec.stop(); }catch(e){} }, 40000);   // 멈춘 채 기다리지 않게
-    rec.onstop = ()=>{ clearTimeout(kill); clearInterval(iv); stream.getTracks().forEach(t=>t.stop()); const b = new Blob(parts, { type:mime.split(';')[0] }); b.size ? ok(b) : no(new Error('empty')); };
+    let iv = 0; const t0 = performance.now() + 150;
+    if(dest){ const m = ac.createGain(); m.gain.value = .9; m.connect(dest); score(ac, m, ac.currentTime + .15); }
+    const done = ()=>{ clearTimeout(kill); clearInterval(iv); stream.getTracks().forEach(t=>t.stop()); vs.getTracks().forEach(t=>t.stop()); try{ ac && ac.close(); }catch(e){} };
+    const kill = setTimeout(()=>{ done(); no(new Error('timeout')); try{ rec.stop(); }catch(e){} }, 30000);   // 멈춘 채 기다리지 않게
+    rec.onstop = ()=>{ done(); const b = new Blob(parts, { type:mime.split(';')[0] }); b.size ? ok(b) : no(new Error('empty')); };
     rec.start(250);
     iv = setInterval(()=>{
-      const now = performance.now(), el = (now - t0) / 1000, dt = Math.min(.1, (now - lt) / 1000); lt = now;
-      let acc = 0, ph = 'reveal'; for(const [p, d] of TL){ if(el < acc + d){ ph = p; break; } acc += d; }
-      if(s.ph !== ph){ go(s, ph); if(ph === 'paddle') splash(s, 420, 1300, 12); if(ph === 'pop') splash(s, 540, 1500, 20); }
-      if(ph === 'walk' && s.w < 4 && Math.floor(s.k / .35) > s.w) s.w++;
-      if(ph === 'paddle' && s.n < 5 && Math.floor(s.k / .3) > s.n){ s.n++; splash(s, s.hx || 600, s.hy || BY, 8); }
-      if(ph === 'tug' && s.pulls < 3 && Math.floor(s.k / .45) > s.pulls){ s.pulls++; splash(s, 487, 1320, 8); }
-      step(s, dt, false); paint(g, s, A); onP?.(Math.min(1, el / DUR));
+      const el = Math.max(0, (performance.now() - t0) / 1000);
+      reel(g, A, el); onP?.(Math.min(1, el / DUR));
       if(el >= DUR){ clearInterval(iv); try{ rec.stop(); }catch(e){} }
     }, 1000 / 30);
   });
@@ -530,6 +636,7 @@ async function shareFile(file){
 async function onClick(e){
   const t = e.target.closest('button, canvas'); if(!t || t.disabled) return;
   if(t.id === 'pep-cv') return act();
+  if(t.id === 'pp-snd') return music(!SND.on);
   if(t.matches('[data-name]')) return pickName(t.dataset.name);
   if(t.matches('[data-pagain]')) return pickName(me.name);
   if(t.matches('[data-pg]')){ lookG = t.dataset.pg; lookI = 0; return paintLook(); }
@@ -571,8 +678,11 @@ function boot(){
   $('pp-q').addEventListener('input', paintList);
   addEventListener('resize', ()=>{ if(!$('pp-play').hidden) sizeCv(); });
   if(DEMO){ const bd = $('pp-demo'); if(bd) bd.hidden = false; }
+  let again = false; try{ again = localStorage.getItem(LSND) === '1'; }catch(e){}
+  paintSnd(); if(again){ const b = $('pp-snd'); if(b) b.textContent = '🔊';   // 켜 두었으면 첫 터치에 다시(자동 재생은 막혀 있다)
+    addEventListener('pointerdown', e=>{ if(!SND.on && !e.target.closest('#pp-snd')) music(true, true); }, { once:true, capture:true }); }
   want(['bg']); loadMe(); enter(); pullWall();
 }
 boot();
-window._pepero = { PRIZES, LOOKS, pick, png, video, walk, paddle, pull, get res(){ return res; }, get S(){ return S; }, get wall(){ return wall; }, get me(){ return me; } };
+window._pepero = { PRIZES, LOOKS, pick, png, video, audio:{ bar, score, BEAT, REEL_END }, music, walk, paddle, pull, get res(){ return res; }, get S(){ return S; }, get wall(){ return wall; }, get me(){ return me; } };
 })();

diff --git a/pepero.html b/pepero.html
@@ -49,10 +49,13 @@ button:focus-visible, input:focus-visible{ outline:3px solid #6FD0EA; outline-of
 .pp-look img{ width:auto; height:150px; max-width:100%; object-fit:contain; filter:drop-shadow(0 6px 6px rgba(60,30,60,.18)) }
 .pp-look span{ font-weight:900; font-size:13px; color:var(--ink) }
 .pp-look.on{ background:#FFE1E8; transform:translateY(-4px); box-shadow:inset 0 -5px 0 rgba(200,60,100,.12), 0 9px 0 #E86F86, 0 0 0 3px #FF8FA3 }
-.pp-top{ display:flex; align-items:center; justify-content:space-between; gap:8px; margin-bottom:2px }
+.pp-top{ display:flex; align-items:center; justify-content:space-between; gap:8px; margin-bottom:2px; padding-right:58px }
 .pp-top b{ font-size:14px; font-weight:900; min-width:0; overflow:hidden; text-overflow:ellipsis; white-space:nowrap }
 .pp-foot{ margin-top:18px; text-align:center; font-size:12.5px; color:var(--ink2) } .pp-foot a{ color:#C2456A; font-weight:800 }
 .pp-demo{ margin:0 auto 10px; width:max-content; max-width:100%; background:#2B2340; color:#FFE08A; font-weight:900; font-size:12.5px; border-radius:999px; padding:5px 14px }
+.pp-snd{ position:fixed; top:calc(10px + env(safe-area-inset-top)); right:12px; z-index:8; width:48px; height:48px; border:0; border-radius:50%; background:#fff; font-size:22px; cursor:pointer;
+  box-shadow:inset 0 -4px 0 rgba(60,30,60,.1), inset 0 3px 0 #fff, 0 4px 0 #E8D6B6, 0 8px 16px rgba(90,60,120,.18) }
+.pp-snd[aria-pressed="true"]{ background:#FFE1E8 }
 .pp-toast{ position:fixed; left:50%; bottom:calc(24px + env(safe-area-inset-bottom)); transform:translateX(-50%); background:var(--ink); color:#fff; font-weight:800; font-size:14px;
   border-radius:999px; padding:10px 18px; z-index:9; max-width:calc(100vw - 32px); text-align:center }
 .pep-stage canvas{ display:block; margin:6px auto 0; height:min(58vh, calc((100vw - 40px) * 16 / 9)); max-width:100%; aspect-ratio:9/16; border:5px solid #fff; border-radius:30px; background:#A9DBF5; touch-action:manipulation;
@@ -119,6 +122,7 @@ button:focus-visible, input:focus-visible{ outline:3px solid #6FD0EA; outline-of
     <p id="pep-hint" class="pep-hint" aria-live="polite"></p><div id="pep-ctl" class="pep-ctl"></div><div id="pep-wall" class="pep-wall"></div>
   </section>
   <p class="pp-foot">양양서핑학교 6기 · <a href="/surfshare">SurfShare 열기</a></p>
+  <button type="button" id="pp-snd" class="pp-snd" aria-pressed="false" aria-label="배경 음악 켜기">🔇</button>
   <div id="pp-toast" class="pp-toast" role="status" hidden></div>
 </main>
 <script src="config.js"></script>

diff --git a/sw.js b/sw.js
@@ -1,6 +1,6 @@
 // 네트워크 우선, 실패 시 캐시 — 바다 앞 신호 약할 때 앱 껍데기가 뜨게
 // '/' 는 /surfshare 로 넘어가므로 캐시 키로 쓰지 않는다. 대신 화면 이동은 아래에서 받아낸다.
-const C = 'surf-v218', FILES = ['./surfshare.html', './guide.html', './school.html', './sprite.js', './mochi.js', './ui.js', './surflog.js', './charcard.js', './backnav.js', './homeedit.js', './roster.js', './play.js', './scenery.js', './surfgame.js', './surfride.js', './skate.js', './quest.js', './defend.js', './install.js', './updates.js', './icons.js', './recommend.js', './waves.js', './quiz.js', './food.js', './foodtalk.js', './feed.js', './bday.js', './pepero.js', './kcg.js', './track.js', './feedback.js', './bus.js', './config.js', './lex.js', './manifest.webmanifest', './school.webmanifest', './icon-180.png', './icon-192.png', './icon-512.png', './icon-512-maskable.png', './icon2-180.png', './icon2-192.png', './icon2-512.png', './icon2-512-maskable.png', './attendance-seed.json', './img/pepero/gift-s.webp'];
+const C = 'surf-v219', FILES = ['./surfshare.html', './guide.html', './school.html', './sprite.js', './mochi.js', './ui.js', './surflog.js', './charcard.js', './backnav.js', './homeedit.js', './roster.js', './play.js', './scenery.js', './surfgame.js', './surfride.js', './skate.js', './quest.js', './defend.js', './install.js', './updates.js', './icons.js', './recommend.js', './waves.js', './quiz.js', './food.js', './foodtalk.js', './feed.js', './bday.js', './pepero.js', './kcg.js', './track.js', './feedback.js', './bus.js', './config.js', './lex.js', './manifest.webmanifest', './school.webmanifest', './icon-180.png', './icon-192.png', './icon-512.png', './icon-512-maskable.png', './icon2-180.png', './icon2-192.png', './icon2-512.png', './icon2-512-maskable.png', './attendance-seed.json', './img/pepero/gift-s.webp'];
 /* 운영(Vercel cleanUrls)에선 ./surfshare.html 이 /surfshare 로 308 되어, 담긴 응답에 '넘어왔음(redirected)' 표시가 붙는다.
    그런 응답을 화면 이동(navigate)에 그대로 주면 브라우저가 거부해 오프라인에서 껍데기가 안 떴다 — 본문만 새 응답으로 옮겨 준다 */
 const unredirect = async r => r && r.redirected ? new Response(await r.blob(), { status:200, statusText:'OK', headers:r.headers }) : r;

diff --git a/updates.js b/updates.js
@@ -5,6 +5,7 @@
 (function(){
 const SEEN = 'lineup.share.upd', HIDE = 'lineup.share.updhide', WEEK = 'lineup.share.updweek', WEEK_MS = 7 * 864e5;
 const UPDATES = [
+  { id:'u1111c', date:'11.11', t:'📸 낙산 서핑 네컷 · 우쿨렐레 음악', items:[['📸','선물을 건지면 인생네컷처럼 네 컷 띠(패들 · 라인업 · 발밑에 걸림 · 선물 든 나)로 저장하고 인스타 스토리로 자랑해요','pepero'],['🎵','직접 만든 우쿨렐레 서프 팝 — 이벤트 화면 🔊 버튼으로 켜고, 7초 릴스 영상에도 음악과 셔터 소리가 들어가요'],['🧸','더 귀여워진 클레이 캐릭터 8종']] },
   { id:'u1111b', date:'11.11', t:'🎁 양양서핑학교 서프 버디 · 낙산 해변 빼빼로 선물', items:[['🏖','surf.owenai.xyz/pepero — 로그인 없이 명단에서 내 이름을 고르고 클레이 캐릭터를 골라 낙산 해변을 탐험해요(보드 넷 1111 → 엎드려 패들 → 라인업 → 리시가 묵직 → 선물상자)','pepero'],['🎨','영화처럼 움직이는 장면 · 선물상자 든 내 캐릭터가 나오는 스토리 포스터와 영상으로 자랑해요'],['🔒','한 이름에 한 번 — 이미 뽑은 이름은 그 결과를 다시 보여 줘요']] },
   { id:'u1111', date:'11.11', t:'🍫 빼빼로 서핑 — 발밑에 걸린 선물', items:[['🏄','11월 11일, 서프보드 네 개가 나란히(1111) — 패들로 파도를 잡으면 발밑에 선물이 걸려요 · 한 사람에 한 번, 꽝 없음','pepero'],['📸','당첨되면 인스타 스토리용 이미지와 짧은 영상을 바로 만들어요'],['🔗','친구에게는 surf.owenai.xyz/pepero 로 알려 주세요']] },
   { id:'u1018b', date:'10.18', t:'💡 개선 요청 · 메뉴 정리', items:[['💡','☰기타 › 개선 요청 — 불편한 점·원하는 기능·버그를 보내면 진행 상태와 답을 「내가 보낸 요청」에서 봐요'],['🗂','마을·채팅·번개·숙소·카풀은 ☰기타 › 「가끔 쓰는 것」으로 옮겼어요'],['🆕','업데이트 카드는 「일주일 닫기」로 7일 동안 숨길 수 있어요'],['📊','앱을 더 좋게 만들려고 어떤 메뉴를 쓰는지만 세요(글 내용은 안 봐요) · 놀이 › 설정에서 끌 수 있어요']] },
